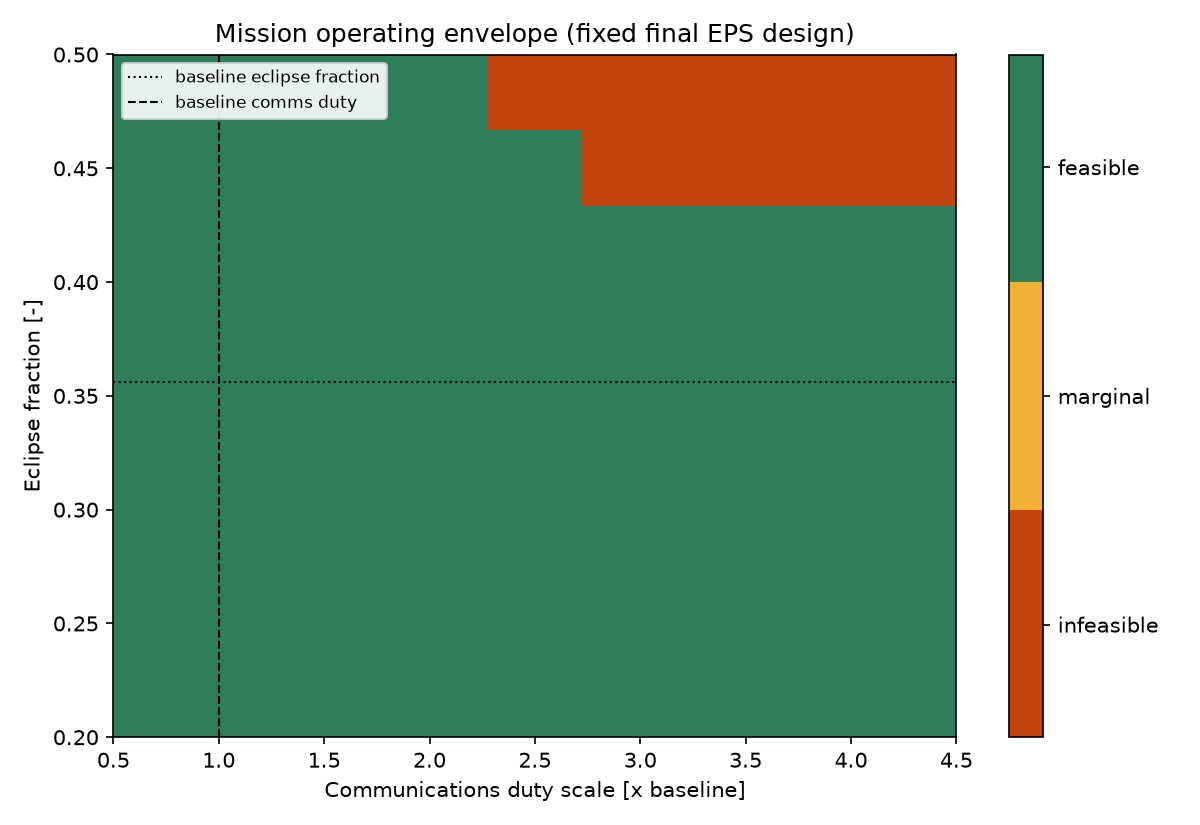
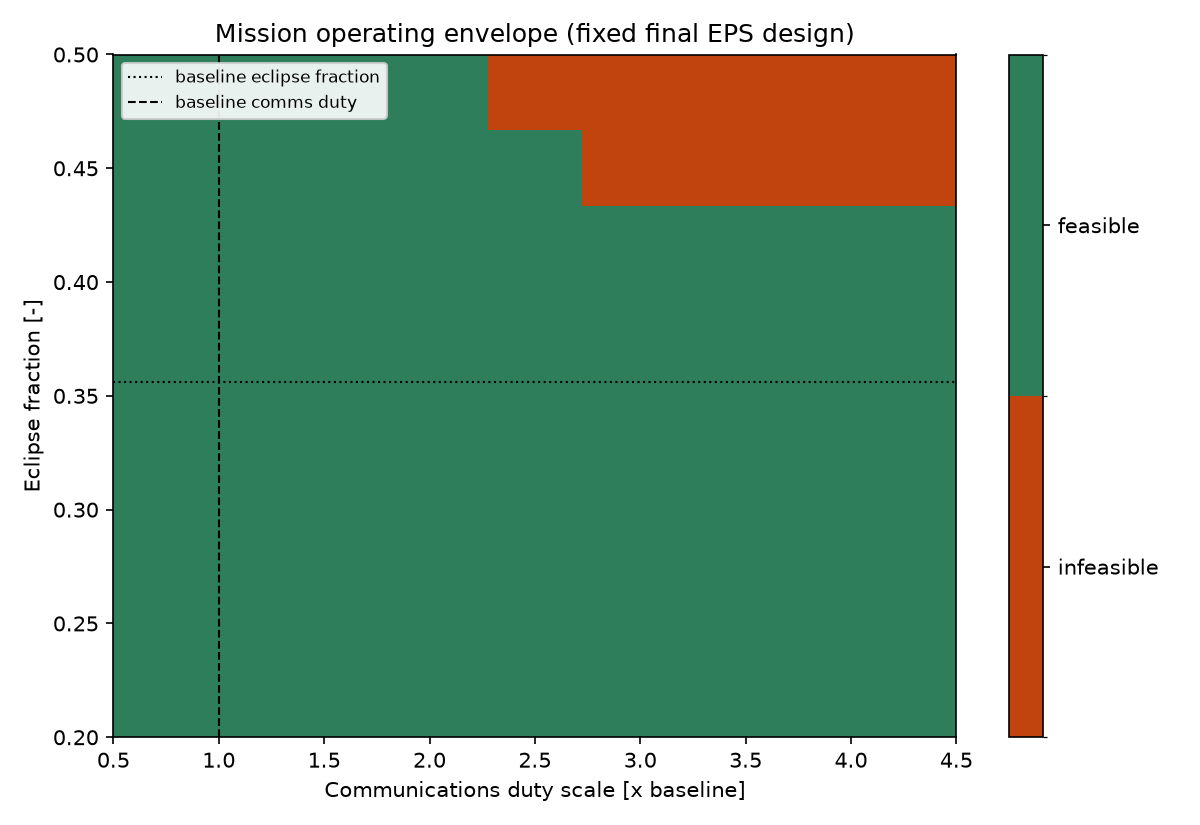
Presentation-only cleanup of four M4 figures
No engineering equations, assumptions, sizing logic, uncertainty
distributions, Monte Carlo seed/sample count, thresholds, numerical
results, or the final recommendation were changed. All four scripts'
stdout is byte-identical to the pre-edit baseline; 246/246 tests still
pass. Final recommendation remains 0.085 m^2 array / 35 Wh battery;
Monte Carlo remains 9,999/10,000 = 99.99% closure (95% CI
99.94-100.00%), same observed failure mode (solar_energy_deficit).

1. Hardware trade map: relabeled the white x marker from ambiguous
   "M2/M3 analytical minimum" to "Pre-robustness M2/M3 design (0.0654
   m^2, 30 Wh)" -- 0.0654 m^2 is genuinely M2's analytical minimum, but
   30 Wh is M3's rounded *selected* capacity (analytical minimum was
   28.84 Wh). Point position and feasibility regions unchanged.

2. Integrated EPS timeline: the EOL array-output line previously ran
   as a flat dashed reference across the whole orbit, including
   eclipse, which could read as solar generation during eclipse. Now
   plots actual generation capability -- constant EOL output during
   sunlight, dropping to exactly zero at eclipse entry -- so the
   physics is visually unambiguous. Load trace and SOC panel/values
   unchanged.

3. Mission operating-envelope map: verified directly from the
   generated CSV that zero cells are classified "marginal" in this
   sweep (72 feasible, 9 infeasible, 0 marginal). classify_feasibility()
[…]

diff --git a/scripts/final_eps_study.py b/scripts/final_eps_study.py
@@ -368,8 +368,18 @@ def fig1_integrated_timeline(pb, profile, design, path: Path) -> None:
     fig, (ax1, ax2) = plt.subplots(2, 1, figsize=(9, 7), sharex=True)
 
     ax1.plot(t_min, p_w, drawstyle="steps-post", color="#1f6f8b", linewidth=1.4, label="bus load")
-    ax1.axhline(design.array_power_eol_w, color="#2e7d5b", linestyle="--", linewidth=1.2,
-                label=f"array EOL output = {design.array_power_eol_w:.1f} W")
+
+    # Array generation capability: physically zero during eclipse (no
+    # sunlight, no PV output) and at the design's EOL output during
+    # sunlight -- plotted as an actual generation trace, not a flat
+    # reference line spanning eclipse, so the figure cannot be read as
+    # implying solar generation during eclipse.
+    eclipse_start_min = ORBIT.eclipse_start_s / 60
+    eclipse_end_min = ORBIT.eclipse_end_s / 60
+    gen_t_min = [0.0, eclipse_start_min, eclipse_start_min, eclipse_end_min]
+    gen_p_w = [design.array_power_eol_w, design.array_power_eol_w, 0.0, 0.0]
+    ax1.plot(gen_t_min, gen_p_w, color="#2e7d5b", linestyle="--", linewidth=1.2,
+             label=f"array EOL generation (sunlight only) = {design.array_power_eol_w:.1f} W")
     ax1.axvspan(ORBIT.eclipse_start_s / 60, ORBIT.eclipse_end_s / 60, color="0.85", zorder=0)
     ax1.set_ylabel("Power [W]")
     ax1.set_title("Integrated nominal EPS timeline: load & generation, and battery SOC")
@@ -407,7 +417,11 @@ def fig2_monte_carlo(mc, design, path: Path) -> None:
 
     ax = axes[1]
     ax.hist(df["min_soc"].dropna() * 100, bins=40, color="#2e7d5b", edgecolor="white")
-    ax.axvline((1 - design.dod_max) * 100, color="#c1440e", linestyle="--", label="DoD_max limit")
+    soc_limit_pct = (1 - design.dod_max) * 100
+    ax.axvline(
+        soc_limit_pct, color="#c1440e", linestyle="--",
+        label=f"minimum SOC limit = {soc_limit_pct:.0f}% (DoD_max = {design.dod_max*100:.0f}%)",
+    )
     ax.set_xlabel("Minimum SOC [%]")
     ax.set_title("Minimum-SOC distribution")
     ax.legend(fontsize=8)
@@ -466,12 +480,24 @@ def fig3_sensitivity(sens_df: pd.DataFrame, path: Path) -> None:
 
 def fig4_operating_envelope(ops_df: pd.DataFrame, path: Path) -> None:
     pivot = ops_df.pivot(index="eclipse_fraction", columns="comms_duty_scale", values="feasibility")
-    color_map = {"infeasible": 0, "marginal": 1, "feasible": 2}
-    grid = pivot.replace(color_map).to_numpy(dtype=float)
+
+    # classify_feasibility() formally defines three categories
+    # (infeasible/marginal/feasible), but the colorbar should only show
+    # the categories genuinely present in *this* generated grid -- an
+    # unused category would otherwise sit in the colorbar with no
+    # corresponding cells in the map, implying a distinction that
+    # doesn't exist in the plotted data.
+    category_order = ["infeasible", "marginal", "feasible"]
+    category_colors = {"infeasible": "#c1440e", "marginal": "#f2b134", "feasible": "#2e7d5b"}
+    present = [c for c in category_order if (pivot == c).to_numpy().any()]
+    index_map = {cat: i for i, cat in enumerate(present)}
+    grid = pivot.replace(index_map).to_numpy(dtype=float)
 
     fig, ax = plt.subplots(figsize=(8, 5.5))
-    cmap = matplotlib.colors.ListedColormap(["#c1440e", "#f2b134", "#2e7d5b"])
-    im = ax.imshow(grid, aspect="auto", origin="lower", cmap=cmap, vmin=0, vmax=2,
+    cmap = matplotlib.colors.ListedColormap([category_colors[c] for c in present])
+    n = len(present)
+    norm = matplotlib.colors.BoundaryNorm([i - 0.5 for i in range(n + 1)], cmap.N)
+    im = ax.imshow(grid, aspect="auto", origin="lower", cmap=cmap, norm=norm,
                     extent=[pivot.columns.min(), pivot.columns.max(), pivot.index.min(), pivot.index.max()])
     ax.set_xlabel("Communications duty scale [x baseline]")
     ax.set_ylabel("Eclipse fraction [-]")
@@ -479,8 +505,8 @@ def fig4_operating_envelope(ops_df: pd.DataFrame, path: Path) -> None:
     ax.axhline(0.356, color="black", linestyle=":", linewidth=1, label="baseline eclipse fraction")
     ax.axvline(1.0, color="black", linestyle="--", linewidth=1, label="baseline comms duty")
     ax.legend(loc="upper left", fontsize=8, framealpha=0.9)
-    cbar = fig.colorbar(im, ax=ax, ticks=[0.33, 1.0, 1.67])
-    cbar.ax.set_yticklabels(["infeasible", "marginal", "feasible"])
+    cbar = fig.colorbar(im, ax=ax, ticks=range(n))
+    cbar.ax.set_yticklabels(present)
     fig.tight_layout()
     fig.savefig(path, dpi=150)
     plt.close(fig)
@@ -502,7 +528,8 @@ def fig5_hardware_trade(trade_nominal, trade_corner, minimum_design, final_desig
         ax.set_ylabel("Battery capacity [Wh]")
         ax.set_title(title)
         ax.scatter([minimum_design.array_area_m2], [minimum_design.battery_capacity_bol_wh],
-                   marker="x", color="white", s=90, linewidths=2.5, label="M2/M3 analytical minimum")
+                   marker="x", color="white", s=90, linewidths=2.5,
+                   label="Pre-robustness M2/M3 design (0.0654 m², 30 Wh)")
         ax.scatter([final_design.array_area_m2], [final_design.battery_capacity_bol_wh],
                    marker="*", color="white", s=200, edgecolor="black", linewidths=0.8, label="Final selected")
         ax.legend(loc="lower right", fontsize=7.5, framealpha=0.9)
